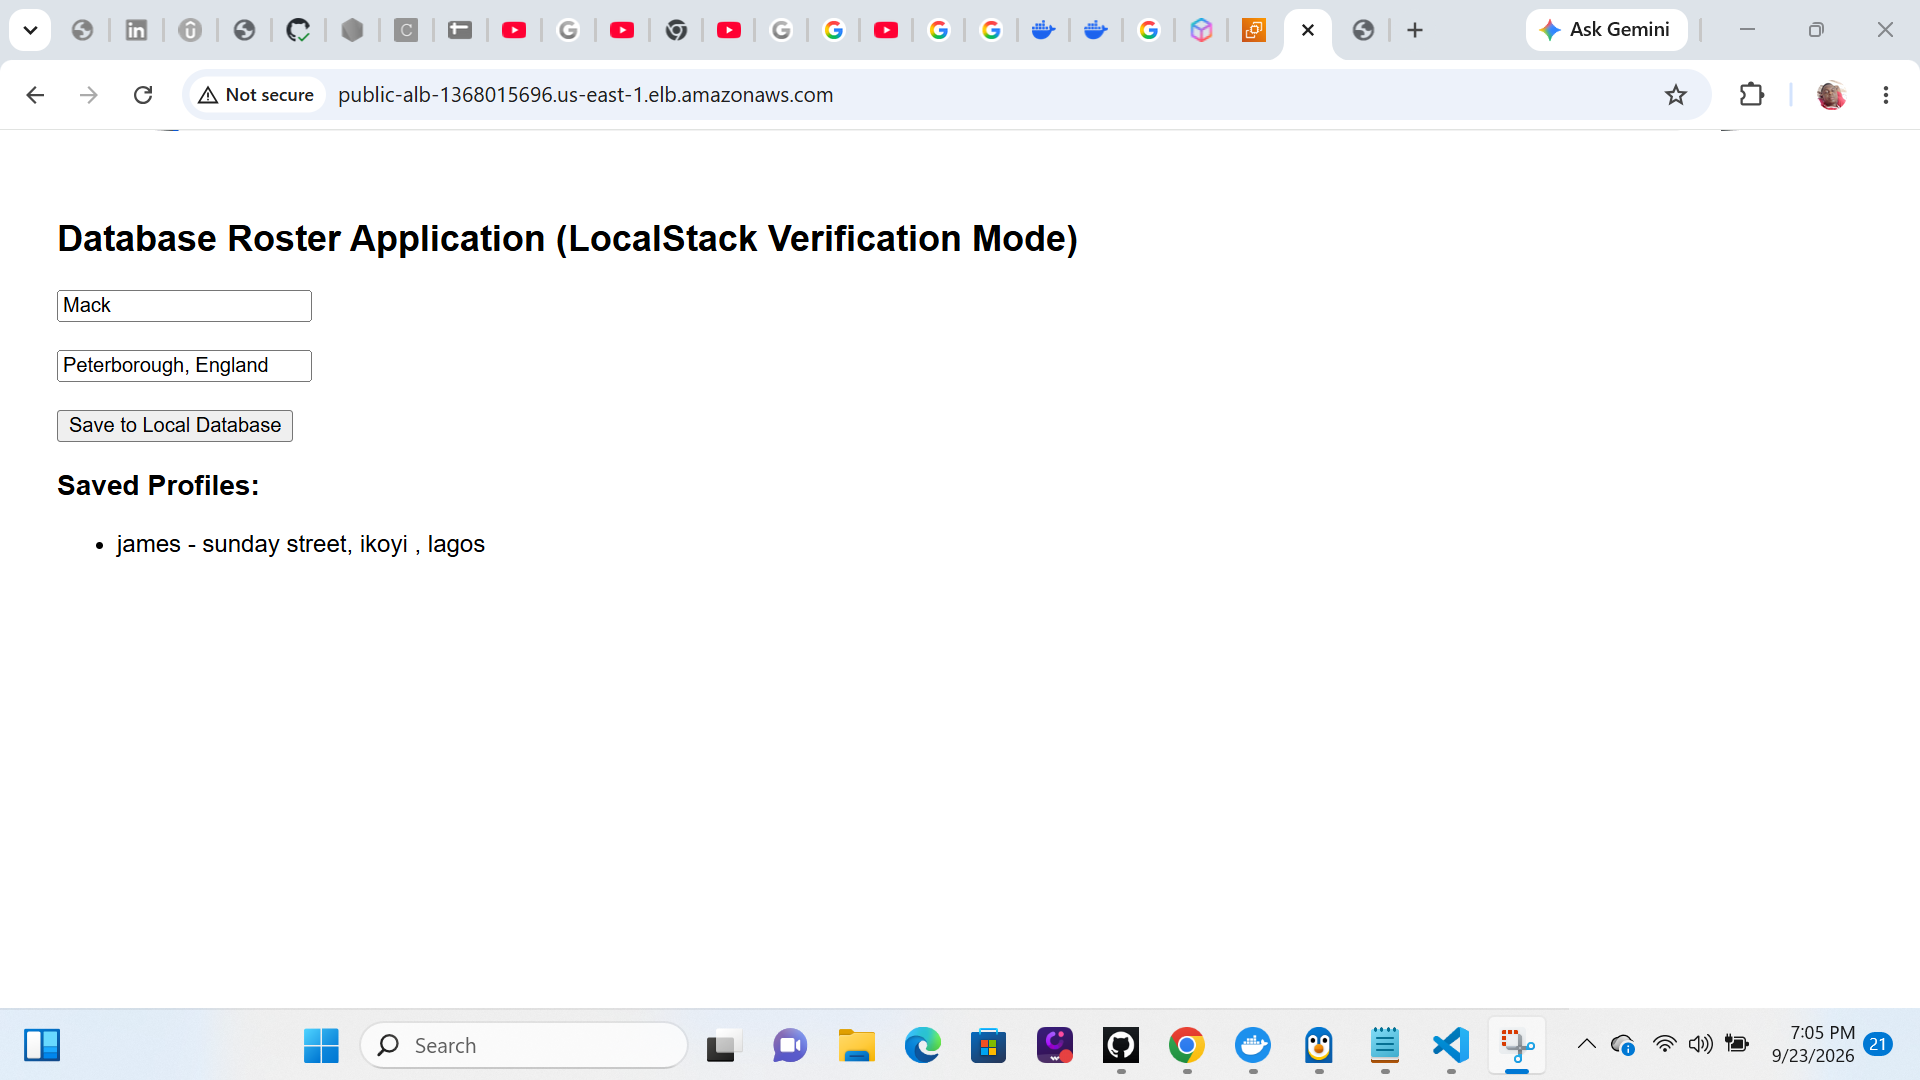
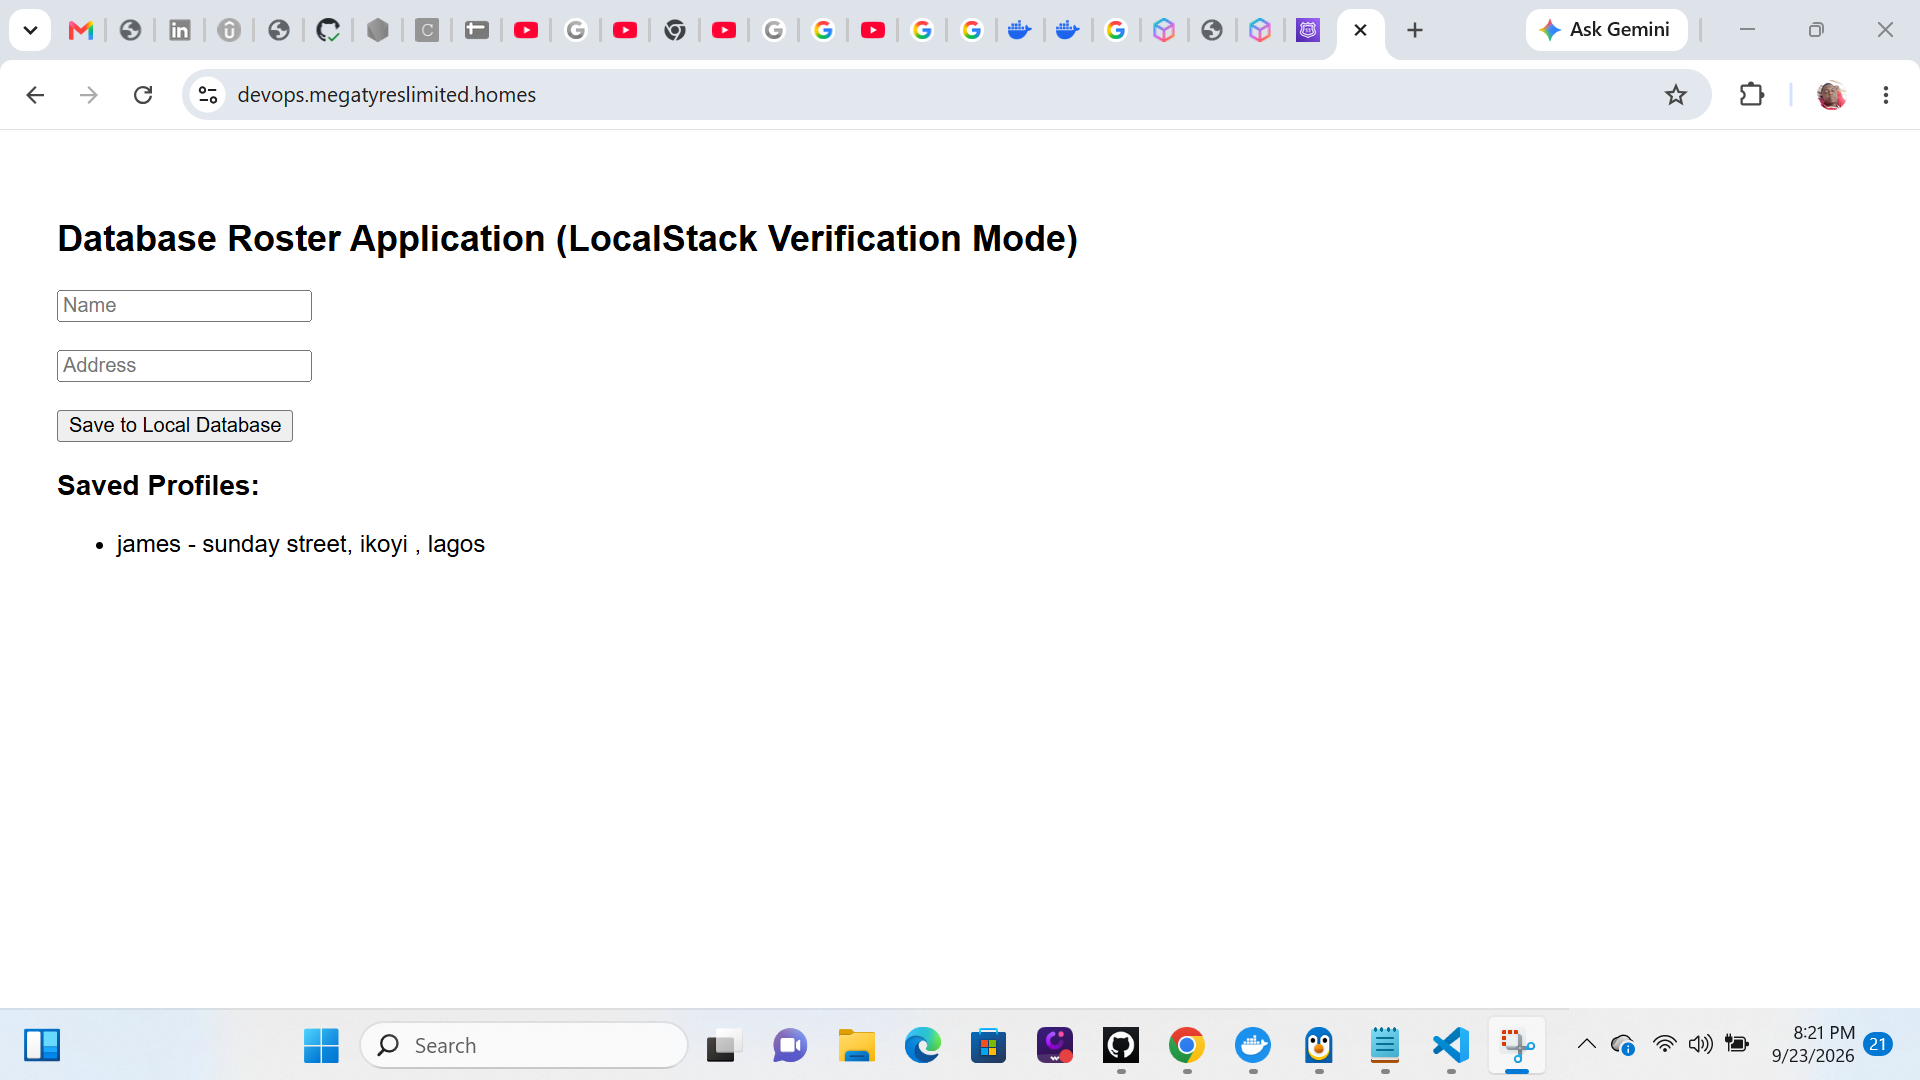
update screenshot with HTTPS live app

Changed region(s): [[0.0312, 0.0, 0.75, 0.1222], [0.0312, 0.275, 0.125, 0.3667]]

diff --git a/README.md b/README.md
@@ -2,7 +2,7 @@
 
 A fully deployed, production-grade cloud infrastructure built on AWS using Terraform, Docker, and GitHub Actions. This project provisions a complete 3-tier architecture across multiple availability zones with zero manual server configuration.
 
-**Live URL:** `http://public-alb-1368015696.us-east-1.elb.amazonaws.com`
+**Live URL:** `https://devops.megatyreslimited.homes`
 
 ---
 
@@ -64,6 +64,7 @@ GitHub Actions handles all build and deploy tasks. Docker images are compiled on
 - RDS connections require SSL (enforced by parameter group)
 - EFS file system encrypted at rest
 - Terraform state encrypted in S3 with DynamoDB state locking
+- HTTPS enforced at the ALB using ACM certificate — HTTP requests are permanently redirected to HTTPS (301)
 
 **Observability**
 CloudWatch monitors every layer of the stack. ALB unhealthy host and 5XX error alarms, EC2 CPU alarms on both ASGs, and RDS CPU and free storage alarms all feed into a single SNS topic. A CloudWatch dashboard gives a single-pane view of the entire infrastructure. Log groups capture nginx and backend application logs with 7-day retention.
